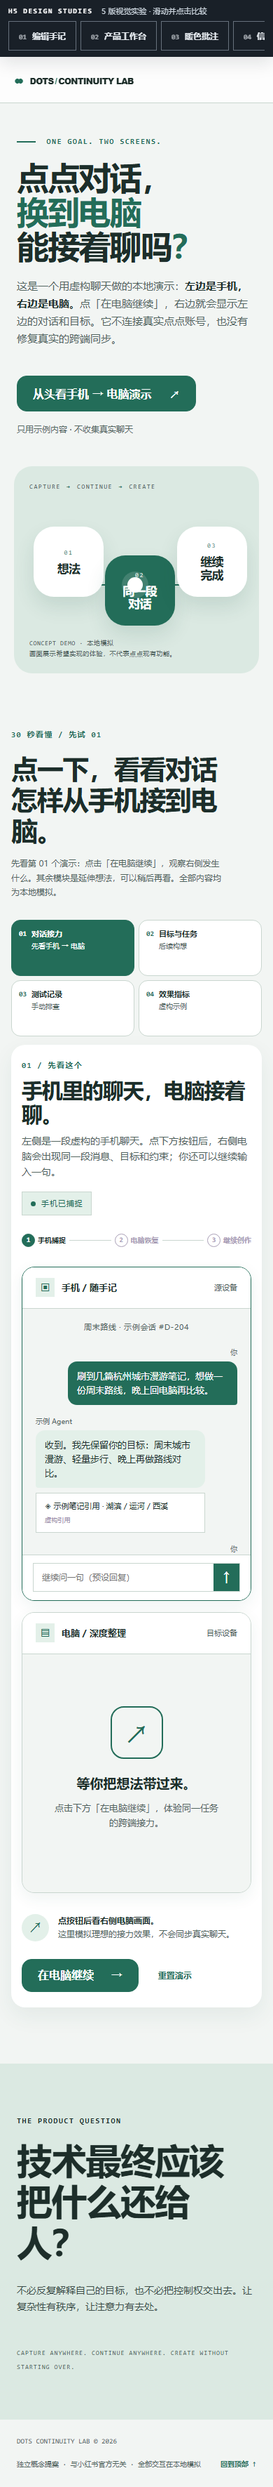
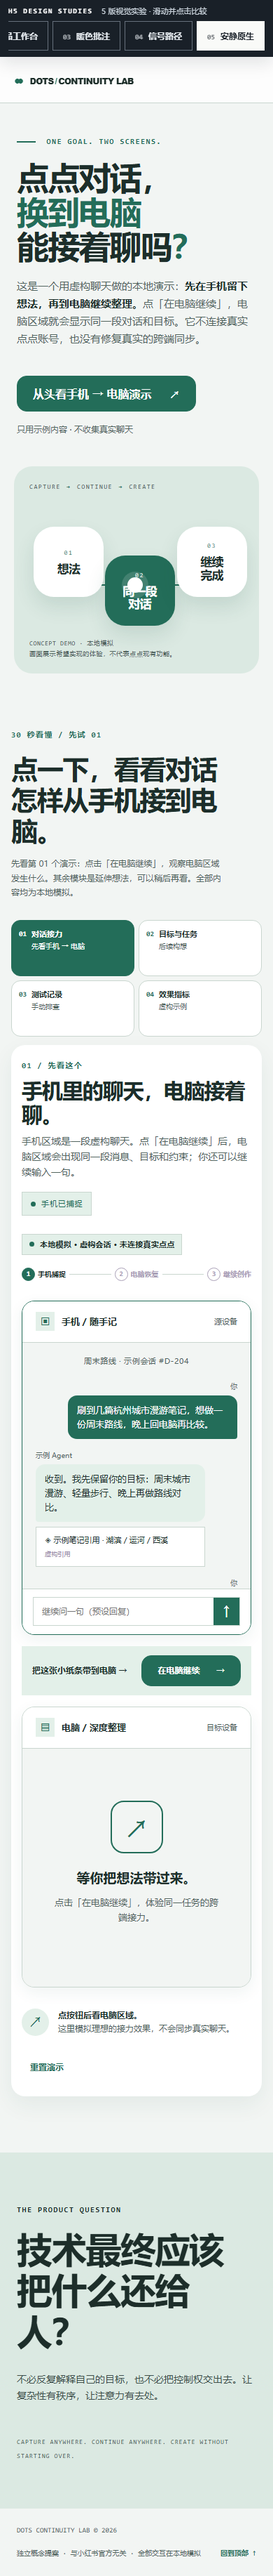
Refine warm notes design and mobile handoff

diff --git a/app/src/App.tsx b/app/src/App.tsx
@@ -1,4 +1,4 @@
-import { useEffect, useState } from 'react';
+import { useEffect, useRef, useState } from 'react';
 
 type ModuleId = 'handoff' | 'continuity' | 'diagnostic' | 'metrics';
 type DesignId = 'editorial' | 'workbench' | 'notes' | 'signal' | 'calm';
@@ -125,6 +125,9 @@ function App() {
   const [lab, setLab] = useState<LabState>(loadState);
   const [draft, setDraft] = useState('');
   const [copied, setCopied] = useState(false);
+  const compareRef = useRef<HTMLDivElement>(null);
+  const desktopRef = useRef<HTMLDivElement>(null);
+  const handoffRequested = useRef(false);
 
   useEffect(() => { localStorage.setItem(STORAGE_KEY, JSON.stringify(lab)); }, [lab]);
   useEffect(() => {
@@ -132,10 +135,37 @@ function App() {
     const timer = window.setTimeout(() => setLab(current => ({ ...current, handoffStep: 2 })), 800);
     return () => window.clearTimeout(timer);
   }, [lab.handoffStep]);
+  useEffect(() => {
+    const scroller = compareRef.current;
+    const selected = scroller?.querySelector<HTMLElement>('.chosen');
+    if (!scroller || !selected) return;
+    const delta = selected.getBoundingClientRect().left - scroller.getBoundingClientRect().left - (scroller.clientWidth - selected.clientWidth) / 2;
+    scroller.scrollBy({ left: delta, behavior: 'smooth' });
+  }, [design]);
+  useEffect(() => {
+    if (lab.handoffStep !== 2 || !handoffRequested.current) return;
+    handoffRequested.current = false;
+    if (!window.matchMedia('(max-width: 800px)').matches) return;
+    desktopRef.current?.focus({ preventScroll: true });
+    desktopRef.current?.scrollIntoView({ behavior: window.matchMedia('(prefers-reduced-motion: reduce)').matches ? 'auto' : 'smooth', block: 'start' });
+  }, [lab.handoffStep]);
 
   const patch = (changes: Partial<LabState>) => setLab(current => ({ ...current, ...changes }));
   const activeDevice: Device = lab.handoffStep >= 2 ? 'desktop' : 'mobile';
-  const stepText = lab.handoffStep === 0 ? '手机已捕捉' : lab.handoffStep === 1 ? '正在接力…' : lab.handoffStep === 2 ? '电脑已接力' : '电脑继续创作中';
+  const stepText = lab.handoffStep === 0 ? '手机已捕捉' : lab.handoffStep === 1 ? '正在模拟接力…' : lab.handoffStep === 2 ? '模拟接力完成' : '电脑继续创作中';
+
+  function beginHandoff() {
+    handoffRequested.current = true;
+    patch({ handoffStep: 1 });
+  }
+
+  function handoffAction() {
+    return lab.handoffStep === 0
+      ? <button className="action-button" type="button" onClick={beginHandoff}>在电脑继续 <span>→</span></button>
+      : lab.handoffStep === 1
+        ? <button className="action-button" type="button" disabled>正在恢复…</button>
+        : <button className="action-button" type="button" onClick={() => patch({ handoffStep: 0 })}>回到手机 <span>↗</span></button>;
+  }
 
   function sendDemoMessage() {
     const message = draft.trim();
@@ -159,6 +189,7 @@ function App() {
   }
 
   function resetDemo() {
+    handoffRequested.current = false;
     setLab(initialState);
     setDraft('');
     setCopied(false);
@@ -186,7 +217,7 @@ function App() {
     <div className="site-shell" data-design={design}>
       <div className="design-compare" role="group" aria-label="五版设计方案">
         <div className="compare-intro"><strong>H5 DESIGN STUDIES</strong><span>5 版视觉实验 · 滑动并点击比较</span></div>
-        <div className="compare-options">{designs.map((item, index) => <button key={item.id} type="button" className={design === item.id ? 'chosen' : ''} aria-pressed={design === item.id} onClick={() => chooseDesign(item.id)} title={item.description}><span>{String(index + 1).padStart(2, '0')}</span>{item.name}</button>)}</div>
+        <div className="compare-options" ref={compareRef}>{designs.map((item, index) => <button key={item.id} type="button" className={design === item.id ? 'chosen' : ''} aria-pressed={design === item.id} onClick={() => chooseDesign(item.id)} title={item.description}><span>{String(index + 1).padStart(2, '0')}</span>{item.name}</button>)}</div>
       </div>
       <header className="topbar">
         <a className="brand" href="#top" aria-label="DOTS CONTINUITY LAB 首页"><span className="brand-dots">●●</span> DOTS<span className="brand-light">/</span>CONTINUITY LAB</a>
@@ -198,7 +229,7 @@ function App() {
           <div className="hero-copy">
             <p className="eyebrow"><span className="eyebrow-line" /> ONE GOAL. TWO SCREENS.</p>
             <h1 id="hero-title">点点对话，<br /><em>换到电脑</em><br />能接着聊吗<span className="period">？</span></h1>
-            <p className="hero-intro">这是一个用虚构聊天做的本地演示：<strong>左边是手机，右边是电脑。</strong>点「在电脑继续」，右边就会显示左边的对话和目标。它不连接真实点点账号，也没有修复真实的跨端同步。</p>
+            <p className="hero-intro">这是一个用虚构聊天做的本地演示：<strong>先在手机留下想法，再到电脑继续整理。</strong>点「在电脑继续」，电脑区域就会显示同一段对话和目标。它不连接真实点点账号，也没有修复真实的跨端同步。</p>
             <div className="hero-actions">
               <button className="primary-link" type="button" onClick={() => { resetDemo(); document.getElementById('lab')?.scrollIntoView({ behavior: 'smooth' }); }}>从头看手机 → 电脑演示 <span aria-hidden="true">↗</span></button>
               <span className="hero-caption">只用示例内容 · 不收集真实聊天</span>
@@ -215,19 +246,21 @@ function App() {
         </section>
 
         <section className="lab-section" id="lab" aria-labelledby="lab-title">
-          <div className="section-heading"><div><p className="eyebrow">30 秒看懂 / 先试 01</p><h2 id="lab-title">点一下，看看对话<br />怎样从手机接到电脑。</h2></div><p className="section-aside">先看第 01 个演示：点击「在电脑继续」，观察右侧发生什么。其余模块是延伸想法，可以稍后再看。全部内容均为本地模拟。</p></div>
+          <div className="section-heading"><div><p className="eyebrow">30 秒看懂 / 先试 01</p><h2 id="lab-title">点一下，看看对话<br />怎样从手机接到电脑。</h2></div><p className="section-aside">先看第 01 个演示：点击「在电脑继续」，观察电脑区域发生什么。其余模块是延伸想法，可以稍后再看。全部内容均为本地模拟。</p></div>
           <nav className="module-nav" aria-label="实验模块">
             {modules.map(item => <button key={item.id} className={`module-tab ${lab.activeModule === item.id ? 'active' : ''}`} type="button" aria-current={lab.activeModule === item.id ? 'page' : undefined} onClick={() => patch({ activeModule: item.id })}><span className="tab-number">{item.number}</span><span><strong>{item.title}</strong><small>{item.label}</small></span></button>)}
           </nav>
 
           {lab.activeModule === 'handoff' && <section className="module-panel" aria-labelledby="handoff-title">
-            <div className="panel-head"><div><p className="eyebrow">01 / 先看这个</p><h3 id="handoff-title">手机里的聊天，电脑接着聊。</h3><p>左侧是一段虚构的手机聊天。点下方按钮后，右侧电脑会出现同一段消息、目标和约束；你还可以继续输入一句。</p></div><span className="status-pill"><span className={`status-dot ${lab.handoffStep === 1 ? 'pulse' : ''}`} />{stepText}</span></div>
+            <div className="panel-head"><div><p className="eyebrow">01 / 先看这个</p><h3 id="handoff-title">手机里的聊天，电脑接着聊。</h3><p>手机区域是一段虚构聊天。点「在电脑继续」后，电脑区域会出现同一段消息、目标和约束；你还可以继续输入一句。</p></div><span className="status-pill" aria-live="polite"><span className={`status-dot ${lab.handoffStep === 1 ? 'pulse' : ''}`} />{stepText}</span></div>
+            <p className="simulation-note">本地模拟 · 虚构会话 · 未连接真实点点</p>
             <div className="journey-track" aria-label="接力进度"><div className={lab.handoffStep >= 0 ? 'current' : ''}><span>1</span> 手机捕捉</div><i /><div className={lab.handoffStep >= 2 ? 'current' : ''}><span>2</span> 电脑恢复</div><i /><div className={lab.handoffStep >= 3 ? 'current' : ''}><span>3</span> 继续创作</div></div>
             <div className="devices">
               <div className={`device phone ${activeDevice === 'mobile' ? 'device-active' : ''}`}><div className="device-top"><div><span className="device-icon">▣</span><strong>手机 / 随手记</strong></div><span>源设备</span></div><div className="conversation"><div className="chat-date">周末路线 · 示例会话 #D-204</div>{lab.messages.filter(item => item.origin === 'mobile' || lab.handoffStep >= 2).map(item => <MessageBubble key={item.id} message={item} />)}</div><div className="device-bottom">{activeDevice === 'mobile' ? <Composer value={draft} setValue={setDraft} onSend={sendDemoMessage} label="手机端示例消息" /> : <span>这段会话已随你进入电脑。</span>}</div></div>
-              <div className={`device desktop ${activeDevice === 'desktop' ? 'device-active' : ''}`}><div className="device-top"><div><span className="device-icon">▤</span><strong>电脑 / 深度整理</strong></div><span>目标设备</span></div>{lab.handoffStep < 2 ? <div className="desktop-empty"><span className="empty-symbol">↗</span><strong>等你把想法带过来。</strong><p>点击下方「在电脑继续」，体验同一任务的跨端接力。</p></div> : <><div className="desktop-context"><span>CONTEXT SNAPSHOT</span>{lab.layers.context ? <><p><strong>目标</strong>{lab.contextGoal || '尚未填写'}</p><p><strong>约束</strong>{lab.contextConstraint || '尚未填写'}</p></> : <p>上下文层已关闭。目标与约束不会自动恢复。</p>}</div><div className="conversation"><div className="chat-date">同一会话 #D-204 · {lab.layers.history ? '历史已恢复' : '历史层已关闭'}</div>{lab.layers.history ? lab.messages.map(item => <MessageBubble key={item.id} message={item} />) : <div className="missing-layer">会话列表可见，但历史消息没有恢复。试试开启 History 层。</div>}</div><div className="device-bottom"><Composer value={draft} setValue={setDraft} onSend={sendDemoMessage} label="电脑端示例消息" /></div></>}</div>
+              <div className="mobile-handoff-control"><span>把这张小纸条带到电脑 →</span>{handoffAction()}</div>
+              <div className={`device desktop ${activeDevice === 'desktop' ? 'device-active' : ''}`} ref={desktopRef} tabIndex={-1}><div className="device-top"><div><span className="device-icon">▤</span><strong>电脑 / 深度整理</strong></div><span>目标设备</span></div>{lab.handoffStep < 2 ? <div className="desktop-empty"><span className="empty-symbol">↗</span><strong>等你把想法带过来。</strong><p>点击「在电脑继续」，体验同一任务的跨端接力。</p></div> : <><div className="desktop-context"><span>本地模拟 · 虚构会话</span>{lab.layers.context ? <><p><strong>目标</strong>{lab.contextGoal || '尚未填写'}</p><p><strong>约束</strong>{lab.contextConstraint || '尚未填写'}</p></> : <p>上下文层已关闭。目标与约束不会自动恢复。</p>}</div><div className="conversation"><div className="chat-date">同一虚构会话 #D-204 · {lab.layers.history ? '历史已恢复' : '历史层已关闭'}</div>{lab.layers.history ? lab.messages.map(item => <MessageBubble key={item.id} message={item} />) : <div className="missing-layer">会话列表可见，但历史消息没有恢复。试试开启 History 层。</div>}</div><div className="device-bottom"><Composer value={draft} setValue={setDraft} onSend={sendDemoMessage} label="电脑端示例消息" /></div></>}</div>
             </div>
-            <div className="handoff-actions"><div className="bridge-caption"><span className="bridge-icon">↗</span><p><strong>点按钮后看右侧电脑画面。</strong><br />这里模拟理想的接力效果，不会同步真实聊天。</p></div><div className="button-row">{lab.handoffStep === 0 ? <button className="action-button" type="button" onClick={() => patch({ handoffStep: 1 })}>在电脑继续 <span>→</span></button> : lab.handoffStep === 1 ? <button className="action-button" type="button" disabled>正在恢复…</button> : <button className="action-button" type="button" onClick={() => patch({ handoffStep: 0 })}>回到手机 <span>↗</span></button>}<button className="quiet-button" type="button" onClick={resetDemo}>重置演示</button></div></div>
+            <div className="handoff-actions"><div className="bridge-caption"><span className="bridge-icon">↗</span><p><strong>点按钮后看电脑区域。</strong><br />这里模拟理想的接力效果，不会同步真实聊天。</p></div><div className="button-row">{handoffAction()}<button className="quiet-button" type="button" onClick={resetDemo}>重置演示</button></div></div>
           </section>}
 
           {lab.activeModule === 'continuity' && <section className="module-panel" aria-labelledby="continuity-title"><div className="panel-head"><div><p className="eyebrow">02 / 三层状态</p><h3 id="continuity-title">连续性，不止是聊天记录。</h3><p>逐层关闭，看看用户究竟失去什么。修改上下文后再回到接力模块，它会保留。</p></div><span className="status-pill">LOCAL STATE SAVED</span></div><div className="layer-grid">{(['history', 'context', 'execution'] as Layer[]).map((layer, index) => <button key={layer} className={`layer-card ${lab.layers[layer] ? 'is-on' : 'is-off'}`} type="button" role="switch" aria-checked={lab.layers[layer]} onClick={() => setLab(current => ({ ...current, layers: { ...current.layers, [layer]: !current.layers[layer] } }))}><span className="layer-index">0{index + 1} / {layer.toUpperCase()}</span><span className="layer-switch"><i /></span><strong>{layer === 'history' ? '看见完整过去' : layer === 'context' ? '理解正在做什么' : '接住未完成的事'}</strong><small>{layer === 'history' ? '会话、消息、引用和顺序。' : layer === 'context' ? '目标、约束、来源和待办。' : '任务状态、工具结果与安全检查点。'}</small></button>)}</div><div className="continuity-details"><div className="context-editor"><p className="eyebrow">CONTEXT / 可编辑的理解</p><label htmlFor="context-goal">当前目标</label><textarea id="context-goal" value={lab.contextGoal} onChange={event => patch({ contextGoal: event.target.value })} rows={3} /><label htmlFor="context-constraint">已确认约束</label><textarea id="context-constraint" value={lab.contextConstraint} onChange={event => patch({ contextConstraint: event.target.value })} rows={3} /><p className="field-note">改动只保存在这台浏览器，不会发送给任何服务。</p></div><div className="execution-card"><p className="eyebrow">EXECUTION / 示例任务</p><div className="run-header"><strong>整理三条路线</strong><span className={`run-badge ${lab.runStatus}`}>{lab.runStatus === 'paused' ? '已暂停' : lab.runStatus === 'running' ? '进行中' : lab.runStatus === 'waiting' ? '等你选择' : lab.runStatus === 'completed' ? '已完成' : '失败'}</span></div><ol className="task-list"><li className="done">收集公开笔记 <span>已完成</span></li><li className="done">提取地点与交通 <span>已完成</span></li><li className={lab.runStatus === 'completed' ? 'done' : ''}>比较路线并写稿 <span>{lab.runStatus === 'completed' ? '已完成' : '待继续'}</span></li></ol><p className="checkpoint">Checkpoint · 已保存任务目标和前两步结果。恢复不会重复执行已完成的模拟步骤。</p><div className="run-actions"><button type="button" onClick={() => patch({ runStatus: 'running' })}>运行</button><button type="button" onClick={() => patch({ runStatus: 'paused' })}>暂停</button><button type="button" onClick={() => patch({ runStatus: 'completed' })}>完成</button><button type="button" onClick={() => patch({ runStatus: 'failed' })}>模拟失败</button></div></div></div><div className="impact-strip"><strong>当前接力能力</strong><p>{!lab.layers.history ? '没有历史：用户需要重新讲述对话。' : !lab.layers.context ? '只有历史：Agent 还需重新理解目标。' : !lab.layers.execution ? '保留目标，但未完成任务的状态没有接上。' : '历史、上下文与任务状态都能被接住。'}</p><button className="text-link" type="button" onClick={() => patch({ activeModule: 'handoff' })}>回到接力演示 ↗</button></div></section>}

diff --git a/app/src/variants.css b/app/src/variants.css
@@ -9,6 +9,10 @@
 .compare-options button:hover{background:#34404c}
 .compare-options button.chosen{background:#f9faf8;color:#192028;border-color:#f9faf8}
 .compare-options button:focus-visible{outline:3px solid #f3c550;outline-offset:-3px}
+.mobile-handoff-control{display:none}
+.simulation-note{display:inline-flex;align-items:center;gap:8px;margin:0 0 18px;padding:7px 10px;border:1px solid var(--line);background:var(--soft);color:var(--ink);font-size:11px;font-weight:700;letter-spacing:.02em}
+.simulation-note::before{content:"";width:7px;height:7px;flex:none;border-radius:50%;background:var(--accent)}
+.site-shell[data-design] .device.desktop:focus{outline:3px solid var(--accent);outline-offset:5px}
 
 .site-shell[data-design]{--paper:#f6f6f2;--surface:#fff;--ink:#202530;--muted:#5e6470;--line:#c9cdd3;--accent:#345bc3;--accent-text:#fff;--soft:#eaf0ff;--deep:#202c46;--deep-ink:#fff;background:var(--paper);color:var(--ink);font-family:"Segoe UI Variable","Microsoft YaHei UI","PingFang SC",sans-serif}
 .site-shell[data-design] .topbar{height:66px;background:var(--paper);border-color:var(--line);color:var(--ink)}
@@ -138,10 +142,10 @@
 .site-shell[data-design="notes"] .hero{grid-template-columns:1.25fr .75fr;min-height:575px}
 .site-shell[data-design="notes"] .hero-copy{padding-left:clamp(28px,6.7vw,106px)}
 .site-shell[data-design="notes"] .hero h1 em{background:linear-gradient(transparent 63%,#f4d758 63%);color:var(--ink)}
-.site-shell[data-design="notes"] .hero-art{min-height:575px;background:#f4d758;color:var(--ink);border-left:1px solid #c1a83e}
+.site-shell[data-design="notes"] .hero-art{min-height:575px;background:#f4d758;color:var(--ink);border:clamp(9px,1.2vw,17px) solid #6da8db;border-radius:30px 30px 44px 44px;box-shadow:inset 0 0 0 3px #fff7cf,0 15px 0 #2b7fd826;margin:14px 18px 29px 0}
 .site-shell[data-design="notes"] .hero-art-heading,.site-shell[data-design="notes"] .hero-art-note{color:var(--ink)}
 .site-shell[data-design="notes"] .hero-art-heading span{color:#e84a5f}
-.site-shell[data-design="notes"] .hero-orbit{width:145px;height:125px;border-radius:3px;box-shadow:8px 10px 0 #1a1a2e20;background:var(--surface);color:var(--ink);border-color:#8b7a41}
+.site-shell[data-design="notes"] .hero-orbit{width:145px;height:125px;border-radius:5px 13px 8px 11px;box-shadow:7px 9px 0 #2b7fd82d;background:var(--surface);color:var(--ink);border:2px solid #2b7fd8;transition:transform .22s ease-out,box-shadow .22s ease-out}
 .site-shell[data-design="notes"] .hero-orbit span{color:var(--accent)}
 .site-shell[data-design="notes"] .hero-orbit strong{font-size:22px}
 .site-shell[data-design="notes"] .orbit-one{left:8%;top:27%;transform:rotate(-7deg)}
@@ -150,7 +154,14 @@
 .site-shell[data-design="notes"] .hero-bridge{transform:rotate(-13deg);background:#e84a5f;top:54%}
 .site-shell[data-design="notes"] .hero-bridge::before,.site-shell[data-design="notes"] .hero-bridge::after{background:#e84a5f}
 .site-shell[data-design="notes"] .bridge-dot{background:#e84a5f;animation:none}
-.site-shell[data-design="notes"] .primary-link,.site-shell[data-design="notes"] .action-button{border-radius:12px}
+.site-shell[data-design="notes"] .primary-link,.site-shell[data-design="notes"] .action-button{border-radius:12px 5px 12px 6px;box-shadow:4px 5px 0 #1e5b93}
+.site-shell[data-design="notes"] .primary-link:hover,.site-shell[data-design="notes"] .action-button:hover:not(:disabled){box-shadow:2px 3px 0 #1e5b93;transform:translate(2px,2px);background:#226fb5}
+.site-shell[data-design="notes"] .hero-orbit:hover{transform:rotate(0) translateY(-6px);box-shadow:8px 13px 0 #2b7fd839}
+.site-shell[data-design="notes"] .simulation-note{background:#fff2bf;border-style:dashed;border-color:#d9b942}
+.site-shell[data-design="notes"] .message p{border-radius:4px 13px 6px 11px}
+.site-shell[data-design="notes"] .message-user p{border-radius:13px 4px 11px 6px}
+.site-shell[data-design="notes"] .desktop-context{animation:paper-arrives .38s cubic-bezier(.2,.8,.2,1) both}
+.site-shell[data-design="notes"] .note-ref{border-style:dashed}
 .site-shell[data-design="notes"] .module-nav{gap:10px;border:0;background:transparent}
 .site-shell[data-design="notes"] .module-tab{border:1px solid var(--line);border-radius:2px;min-height:83px;background:var(--surface)}
 .site-shell[data-design="notes"] .module-tab.active{background:#f4d758;color:var(--ink);border-color:#d7b940}
@@ -159,6 +170,7 @@
 .site-shell[data-design="notes"] .device{border-radius:4px}
 .site-shell[data-design="notes"] .closing::after{content:"✳";top:-65px;color:#f4d758}
 .site-shell[data-design="notes"] ::selection{background:#f4d758;color:#1a1a2e}
+@keyframes paper-arrives{from{opacity:.35;transform:translateY(13px) rotate(-1deg)}to{opacity:1;transform:translateY(0) rotate(0)}}
 
 /* 04 — A signal path: the handoff is the visual system, with measured states and contrast. */
 .site-shell[data-design="signal"]{--paper:#101f28;--surface:#172d35;--ink:#edf4ed;--muted:#c0d0cb;--line:#507077;--accent:#e3a25e;--accent-text:#1b2629;--soft:#2c4347;--deep:#0b171d;--deep-ink:#edf4ed}
@@ -229,6 +241,12 @@
   .site-shell[data-design="workbench"] .module-nav{grid-template-columns:repeat(2,1fr)}
   .site-shell[data-design="editorial"] .hero-orbit{height:75px;padding:10px 15px}
   .site-shell[data-design="editorial"] .hero-orbit strong{font-size:20px}
+  .mobile-handoff-control{display:flex;align-items:center;justify-content:space-between;gap:12px;padding:13px 15px;background:var(--soft);color:var(--ink);font-size:12px;font-weight:700}
+  .mobile-handoff-control .action-button{flex:none;min-height:44px}
+  .site-shell[data-design] .handoff-actions .button-row .action-button{display:none}
+  .site-shell[data-design] .device.desktop{scroll-margin-top:90px}
+  .site-shell[data-design="notes"] .hero-art{margin:0 20px 20px}
+  .site-shell[data-design="notes"] .mobile-handoff-control{background:#f4d758;border:1px dashed #2b7fd8;border-radius:5px 12px 5px 12px}
 }
 @media(max-width:570px){
   .site-shell[data-design] .hero h1{font-size:clamp(45px,11.8vw,64px)}
@@ -247,5 +265,30 @@
   .site-shell[data-design="notes"] .module-nav,.site-shell[data-design="calm"] .module-nav{gap:6px}
   .site-shell[data-design] .module-panel{padding:22px 15px}
   .site-shell[data-design] .closing::after{display:none}
+  .site-shell[data-design="notes"] .hero-copy{padding:30px 21px 25px}
+  .site-shell[data-design="notes"] .hero h1{font-size:clamp(38px,10vw,48px);margin-bottom:14px}
+  .site-shell[data-design="notes"] .hero-intro{font-size:13px;line-height:1.5}
+  .site-shell[data-design="notes"] .hero-actions{margin-top:16px;gap:9px}
+  .site-shell[data-design="notes"] .hero-caption{font-size:10px}
+  .site-shell[data-design="notes"] .hero-art{min-height:165px;margin:0 15px 18px;border-width:9px;border-radius:16px 16px 27px 27px}
+  .site-shell[data-design="notes"] .hero-art-heading{top:12px;left:14px;font-size:8px}
+  .site-shell[data-design="notes"] .hero-orbit{width:68px;height:65px;box-shadow:4px 5px 0 #2b7fd82d}
+  .site-shell[data-design="notes"] .hero-orbit strong{font-size:13px}
+  .site-shell[data-design="notes"] .hero-orbit span{font-size:8px;margin-bottom:3px}
+  .site-shell[data-design="notes"] .orbit-one{left:7%;top:35%}
+  .site-shell[data-design="notes"] .orbit-two{left:39%;top:40%}
+  .site-shell[data-design="notes"] .orbit-three{right:5%;top:34%}
+  .site-shell[data-design="notes"] .hero-bridge{top:69%;left:12%;right:12%;transform:none}
+  .site-shell[data-design="notes"] .hero-art-note{display:none}
+  .site-shell[data-design="notes"] .lab-section{padding-top:28px}
+  .site-shell[data-design="notes"] .section-heading{margin-bottom:13px}
+  .site-shell[data-design="notes"] .section-heading h2{font-size:27px;line-height:1.18}
+  .site-shell[data-design="notes"] .section-aside{font-size:11px;margin-top:8px}
+  .site-shell[data-design="notes"] .module-tab{min-height:59px;padding:10px}
+  .site-shell[data-design="notes"] .module-panel{padding:18px 13px}
+  .site-shell[data-design="notes"] .panel-head{margin-bottom:13px}
+  .site-shell[data-design="notes"] .panel-head h3{font-size:25px}
+  .site-shell[data-design="notes"] .simulation-note{font-size:10px;margin-bottom:12px}
+  .site-shell[data-design="notes"] .mobile-handoff-control{flex-direction:column;align-items:stretch;text-align:center}
 }
-@media(prefers-reduced-motion:reduce){.site-shell[data-design] .bridge-dot{animation:none!important}}
+@media(prefers-reduced-motion:reduce){.site-shell[data-design] .bridge-dot,.site-shell[data-design="notes"] .desktop-context{animation:none!important}}

diff --git a/DESIGN-STUDIES.md b/DESIGN-STUDIES.md
@@ -2,6 +2,12 @@
 
 这条分支专供比较和 review；`main` 的公开 H5 不变。五版使用同一套虚构聊天、跨端接力交互、测试记录和模拟指标。它们都不连接真实点点账号，也不宣称解决了真实跨端同步。
 
+## 当前选择
+
+妳选择了 **03 暖色批注**。方向词是「创意、先锋、潮流、真实、鲜活、灵动」：蓝色边框像玻璃瓶，奶酪黄的便签保留手作感，轻微抬起和纸条落下的动效让它更活泼。它面向熟悉小红书视觉语境、喜欢艺术感与真实使用故事的人。其他四版保留作对照，尚未选用；这次没有改 `main` 或公开 Pages。
+
+这轮也修正了共用的手机接力：操作按钮放在手机和电脑画面之间，完成后自动带到电脑结果；手机版本切换器会露出当前选中的版本；模拟性质在结果旁持续可见。[查看 03 手机接力结果](review/notes-mobile-handoff.png)。
+
 打开本地 H5 后，用顶部的版本切换器比较；URL 中的 `?design=...` 可直接定位某一版。每版都应先点击「从头看手机 → 电脑演示」，再点击「在电脑继续」。
 
 | 版本 | 参考 skill | 视觉决定 | 桌面 | 手机 | 接力后 |
@@ -20,5 +26,5 @@
 
 - `npm run build -- --base=/DOTS-CONTINUITY-LAB/` 通过。
 - 5 版在 1440px 桌面和 390px 手机宽度均已截图；手机均无横向滚动。
-- 每版点击「在电脑继续」后，电脑侧出现同一段示例聊天和保存的目标；浏览器无运行错误。
+- 每版在桌面和手机点击「在电脑继续」后，电脑侧出现同一段示例聊天和保存的目标；手机会定位到结果，浏览器无运行错误。
 - 图片是本地预览截图，不代表线上 Pages 已切到这条分支。
